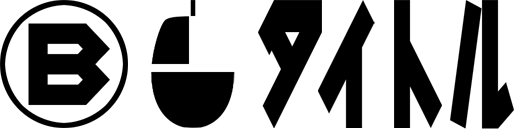
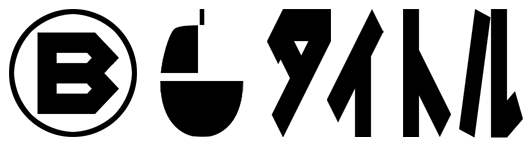
操作説明画像の差し替え

diff --git a/TGS/ProjectData/GameSources/GameStage.cpp b/TGS/ProjectData/GameSources/GameStage.cpp
@@ -33,7 +33,7 @@ namespace basecross {
 	}
 
 	void GameStage::CreateUI() {
-		m_pause = AddGameObject<UI_The_World>(5);
+		m_pause = AddGameObject<UI_The_World>(9999);
 
 	}
 
@@ -391,8 +391,8 @@ namespace basecross {
 
 
 			CreatePinP();
-			m_timer = AddGameObject<UI_CountdownTimer>(15, 15, Vec2(870.0f, 500.0f), Vec2(0.5f), Col4(1.0f), 5);
-			m_startSignal = AddGameObject<UI_Count_Signal>(15, 10, Vec3(0.0f), Vec3(2.0f), Vec3(0.0f), Vec3(1.0f), 5, true);
+			m_timer = AddGameObject<UI_CountdownTimer>(185, 180, Vec2(870.0f, 500.0f), Vec2(0.5f), Col4(1.0f), 5);
+			m_startSignal = AddGameObject<UI_Count_Signal>(185, 180, Vec3(0.0f), Vec3(2.0f), Vec3(0.0f), Vec3(1.0f), 5, true);
 			m_endSignal = AddGameObject<UI_Count_Signal>(5, 0, Vec3(0.0f, 420.0f, 0.0f), Vec3(1.5f), Vec3(0.0f), Vec3(0.8f), 5, false);
 
 			wstring mediaDir;
@@ -457,11 +457,11 @@ namespace basecross {
 				m_state = 10;
 				break;
 			case 5:
-				PrevTitleStage();
+				PrevSelectStage();
 				m_state = 10;
 				break;
 			case 6:
-				PrevSelectStage();
+				PrevTitleStage();
 				m_state = 10;
 				break;
 			default:

diff --git a/TGS/ProjectData/GameSources/MyUI.cpp b/TGS/ProjectData/GameSources/MyUI.cpp
@@ -893,17 +893,17 @@ namespace basecross {
 		}
 		else {
 			m_titleback = GetStage()->AddGameObject<UI_Static_Image>(
-				Vec2(514.0f, 129.0f),
-				Vec3(0.0f, -50.0f, 0.0f),
-				Vec3(1.0f),
+				Vec2(532.0f, 147.0f),
+				Vec3(0.0f, -180.0f, 0.0f),
+				Vec3(0.8f),
 				m_layer,
 				m_white,
 				m_titlebackImageName
 				);
 			m_selectback = GetStage()->AddGameObject<UI_Static_Image>(
-				Vec2(506.0f, 129.0f),
-				Vec3(0.0f, -85.0f, 0.0f),
-				Vec3(1.0f),
+				Vec2(524.0f, 147.0f),
+				Vec3(0.0f, 100.0f, 0.0f),
+				Vec3(0.8f),
 				m_layer,
 				m_white,
 				m_selectbackImageName

diff --git a/TGS/ProjectData/GameSources/TitleStage.cpp b/TGS/ProjectData/GameSources/TitleStage.cpp
@@ -75,18 +75,18 @@ namespace basecross {
 			);
 
 		m_explanationReturnImage = AddGameObject<UI_Static_Image>(
-			Vec2(514.0f, 129.0f),
+			Vec2(532.0f, 147.0f),
 			Vec3(500.0f, 0.0f, 0.0f),
-			Vec3(0.4f),
+			Vec3(0.35f),
 			m_baseLayer + 4,
 			Col4(1.0f),
 			m_explanationReturnImageName
 			);
 
 		m_explanationStartImage = AddGameObject<UI_Static_Image>(
-			Vec2(506.0f, 129.0f),
+			Vec2(524.0f, 147.0f),
 			Vec3(-500.0f, 0.0f, 0.0f),
-			Vec3(0.4f),
+			Vec3(0.35f),
 			m_baseLayer + 4,
 			Col4(1.0f),
 			m_explanationStartImageName
